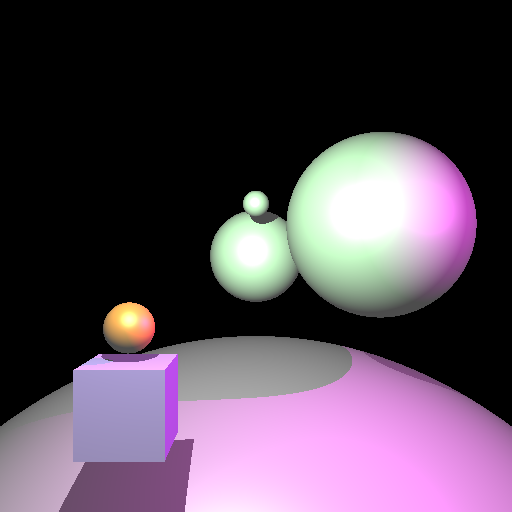
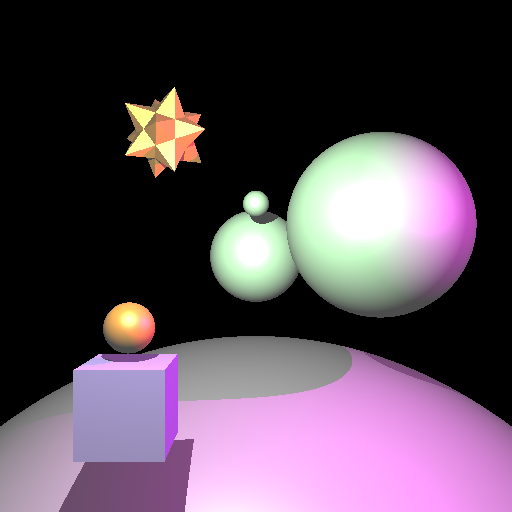
finished non-hier

Changed region(s): [[0.25, 0.1562, 0.4062, 0.3438]]

diff --git a/A4/Mesh.cpp b/A4/Mesh.cpp
@@ -16,7 +16,12 @@ Mesh::Mesh( const std::string& fname )
 	double vx, vy, vz;
 	size_t s1, s2, s3;
 
-	std::ifstream ifs( fname.c_str() );
+    std::string name = "Assets/" + fname;
+	std::ifstream ifs( name.c_str() );
+    if (!ifs.is_open()) {
+        std::cerr << "Failed to open file: " << name << std::endl;
+    }
+
 	while( ifs >> code ) {
 		if( code == "v" ) {
 			ifs >> vx >> vy >> vz;
@@ -26,8 +31,6 @@ Mesh::Mesh( const std::string& fname )
 			m_faces.push_back( Triangle( s1 - 1, s2 - 1, s3 - 1 ) );
 		}
 	}
-
-	std::cout << *this << std::endl;
 }
 
 std::ostream& operator<<(std::ostream& out, const Mesh& mesh)
@@ -35,14 +38,14 @@ std::ostream& operator<<(std::ostream& out, const Mesh& mesh)
     out << "Mesh {" << std::endl;
 
     // Print vertices
-    out << "  Vertices:" << std::endl;
+    out << "  Vertices:" << mesh.m_vertices.size() << std::endl;
     for (size_t idx = 0; idx < mesh.m_vertices.size(); ++idx) {
         const glm::vec3& v = mesh.m_vertices[idx];
-        out << "    " << idx << ": " << glm::to_string(v) << std::endl;
+        out << "    " << idx << ": " << v.r << "," << v.g << "," << v.b << std::endl;
     }
 
     // Print faces (triangles)
-    out << "  Faces (Triangles):" << std::endl;
+    out << "  Faces (Triangles):" << mesh.m_faces.size() << std::endl;
     for (size_t idx = 0; idx < mesh.m_faces.size(); ++idx) {
         const Triangle& tri = mesh.m_faces[idx];
         out << "    " << idx << ": (" << tri.v1 << ", " << tri.v2 << ", " << tri.v3 << ")" << std::endl;
@@ -55,37 +58,42 @@ std::ostream& operator<<(std::ostream& out, const Mesh& mesh)
 
 bool Mesh::intersect(const Ray& ray, Intersection& isect) {
     bool hit = false;
+    const float EPSILON = 1e-6f;
 
     for (const Triangle& tri : m_faces) {
+        // Get vertices of the triangle
         const glm::vec3& v0 = m_vertices[tri.v1];
         const glm::vec3& v1 = m_vertices[tri.v2];
         const glm::vec3& v2 = m_vertices[tri.v3];
 
+        // Compute edges and the normal
         glm::vec3 edge1 = v1 - v0;
         glm::vec3 edge2 = v2 - v0;
-        glm::vec3 h = glm::cross(ray.direction, edge2);
-        float a = glm::dot(edge1, h);
+        glm::vec3 pvec = glm::cross(ray.direction, edge2);
+        float det = glm::dot(edge1, pvec);
 
-        if (std::abs(a) < 1e-6) continue;
+        // Use back-face culling if needed; skip triangles facing away
+        if (det < EPSILON) continue;
 
-        float f = 1.0f / a;
-        glm::vec3 s = ray.origin - v0;
-        float u = f * glm::dot(s, h);
+        // Inverse determinant for efficient division
+        float invDet = 1.0f / det;
 
+        // Calculate u parameter and test bounds
+        glm::vec3 tvec = ray.origin - v0;
+        float u = glm::dot(tvec, pvec) * invDet;
         if (u < 0.0f || u > 1.0f) continue;
 
-        glm::vec3 q = glm::cross(s, edge1);
-        float v = f * glm::dot(ray.direction, q);
-
+        // Calculate v parameter and test bounds
+        glm::vec3 qvec = glm::cross(tvec, edge1);
+        float v = glm::dot(ray.direction, qvec) * invDet;
         if (v < 0.0f || u + v > 1.0f) continue;
 
-        float t = f * glm::dot(edge2, q);
-
+        // Calculate t, check if within bounds, and if it's the closest intersection
+        float t = glm::dot(edge2, qvec) * invDet;
         if (t > ray.mint && t < ray.maxt && t < isect.t) {
             isect.t = t;
             isect.position = ray.origin + t * ray.direction;
             isect.normal = glm::normalize(glm::cross(edge1, edge2));
-
             hit = true;
         }
     }

diff --git a/A4/A4.cpp b/A4/A4.cpp
@@ -18,6 +18,9 @@ glm::vec3 TraceRay(
 		return glm::vec3(0.0f);
 	}
 
+	// [DEBUG] Normal Color
+	// return 0.5f * intersection.normal + 0.5f;
+
 	// static cast material to PhongMaterial
 	PhongMaterial *phongMaterial = static_cast<PhongMaterial *>(intersection.material);
 
@@ -39,7 +42,6 @@ glm::vec3 TraceRay(
 		// Check if the shadow ray intersects any object
 		Intersection shadowIsect;
 		bool inShadow = root->intersect(shadowRay, shadowIsect);
-
 		if (!inShadow) {
 			// Calculate diffuse component
 			float diff = std::max(glm::dot(intersection.normal, lightDir), 0.0f);
